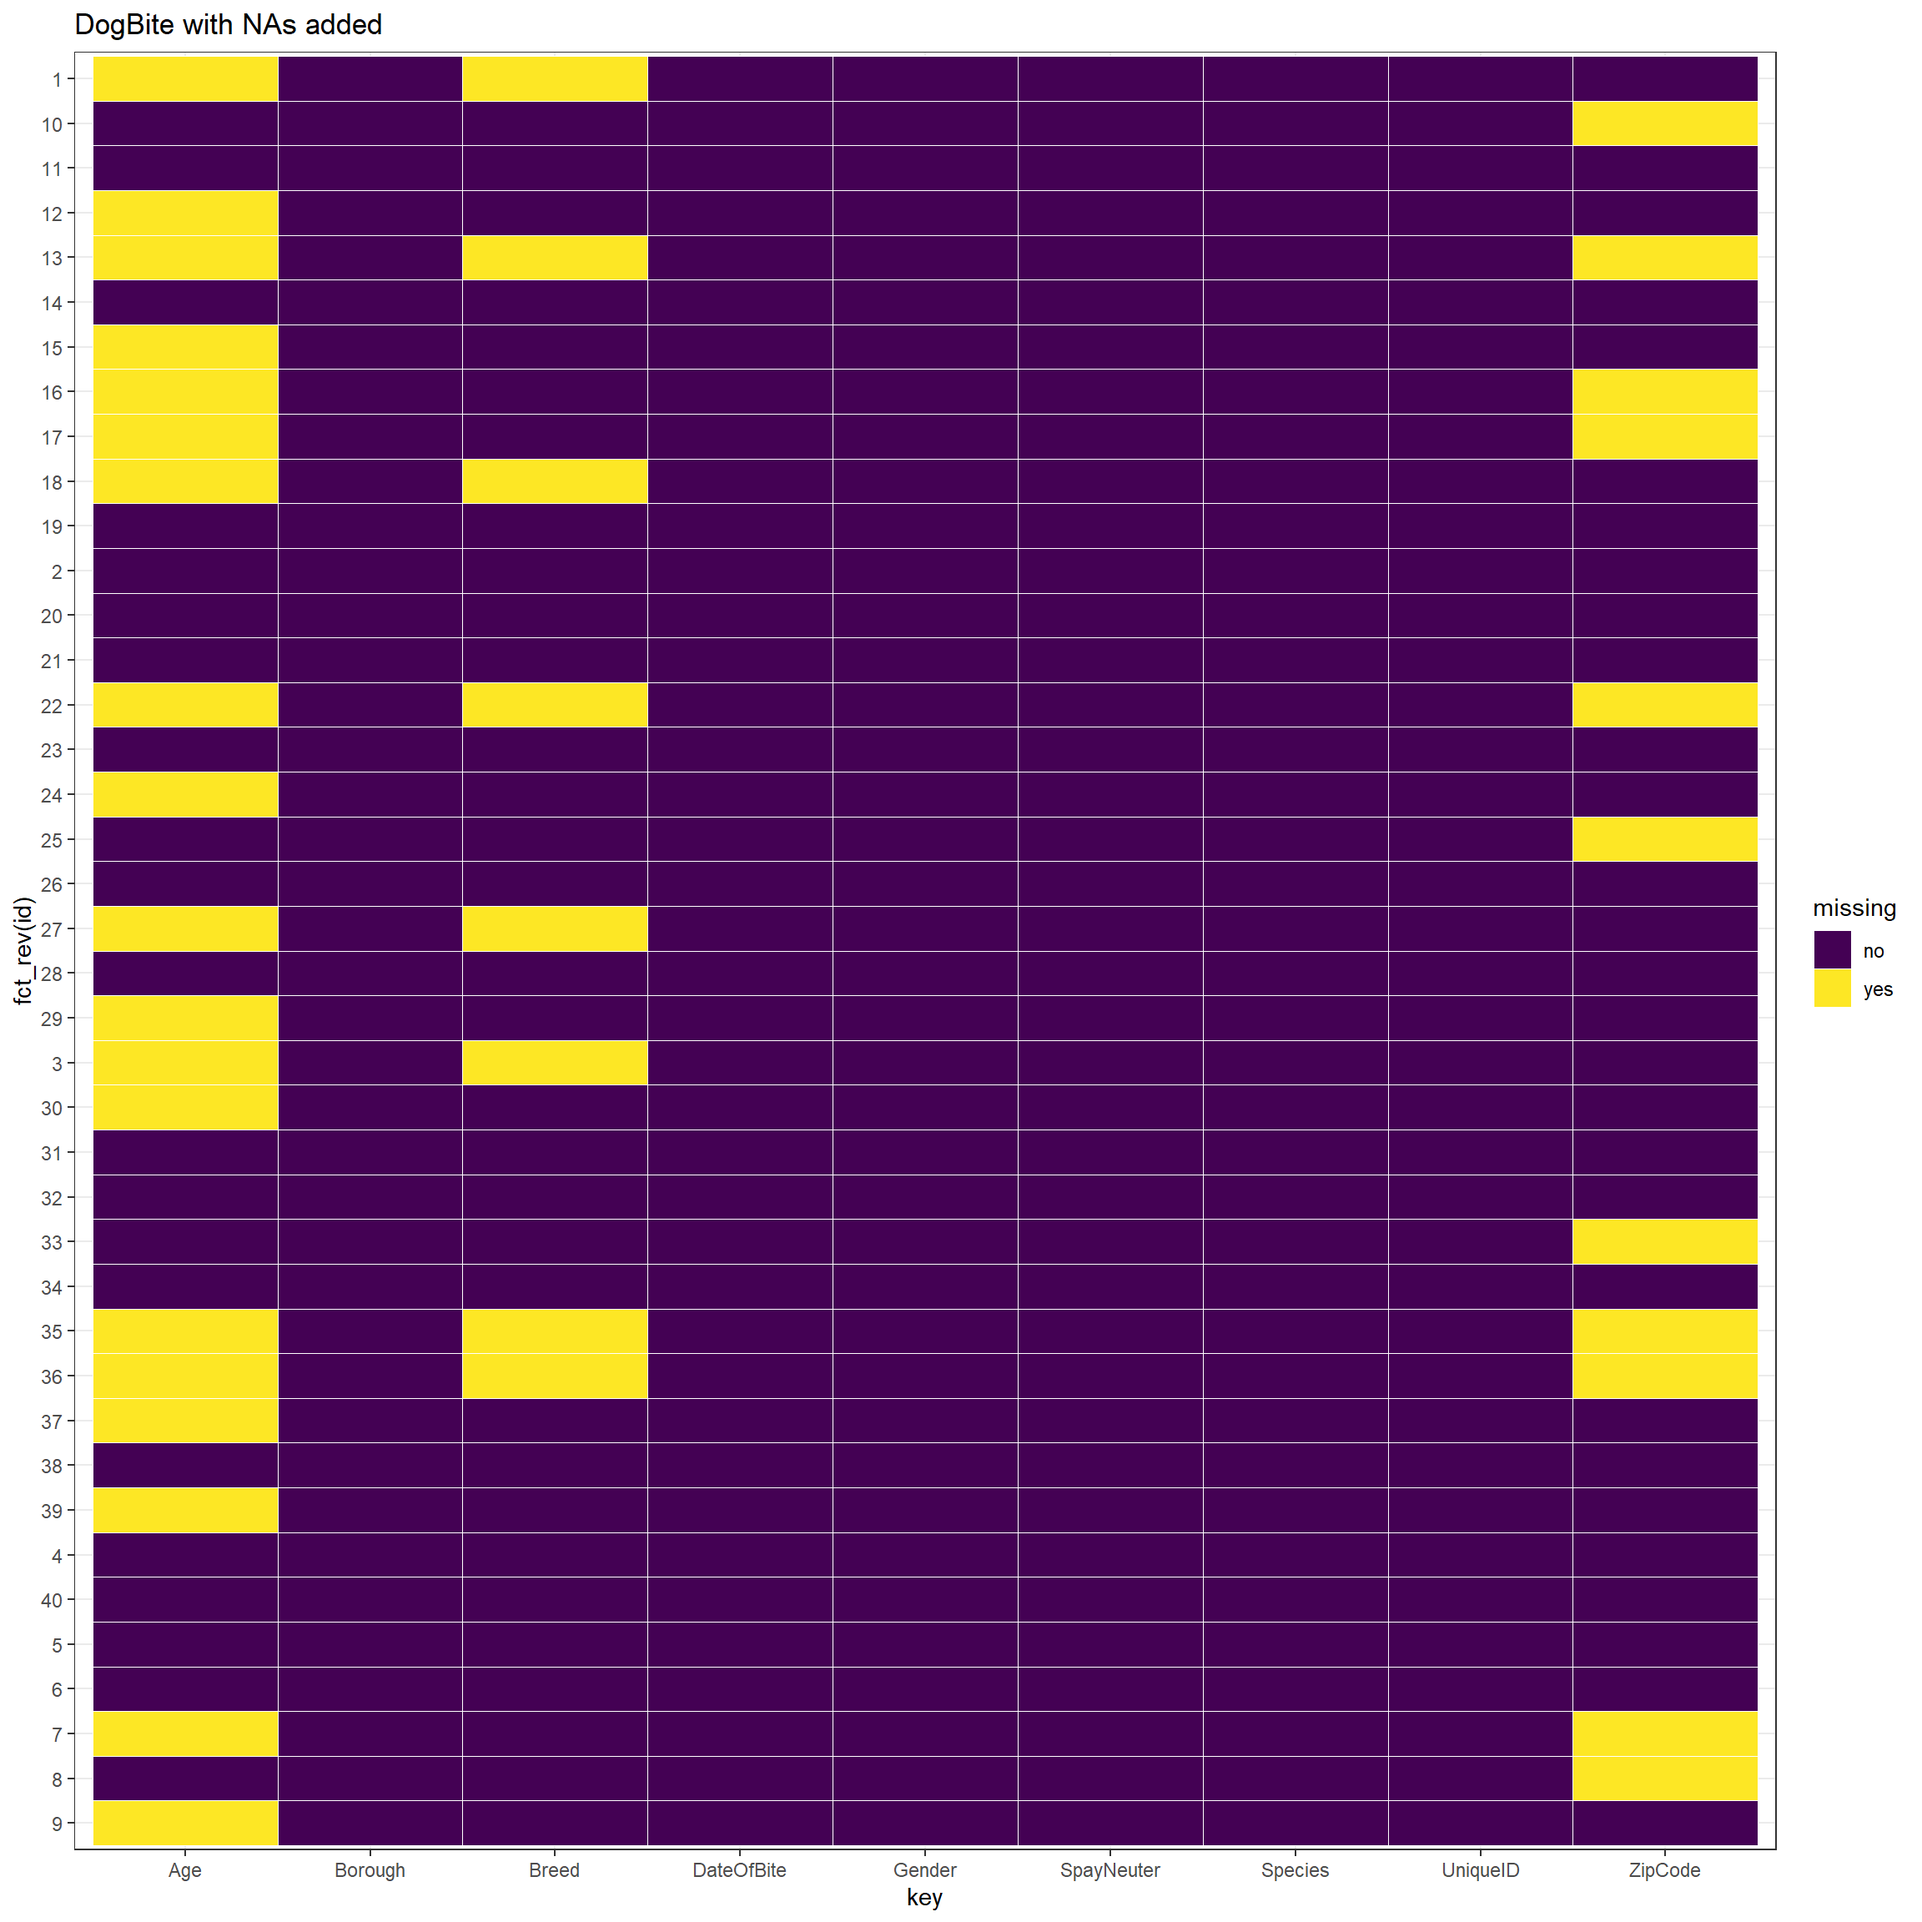
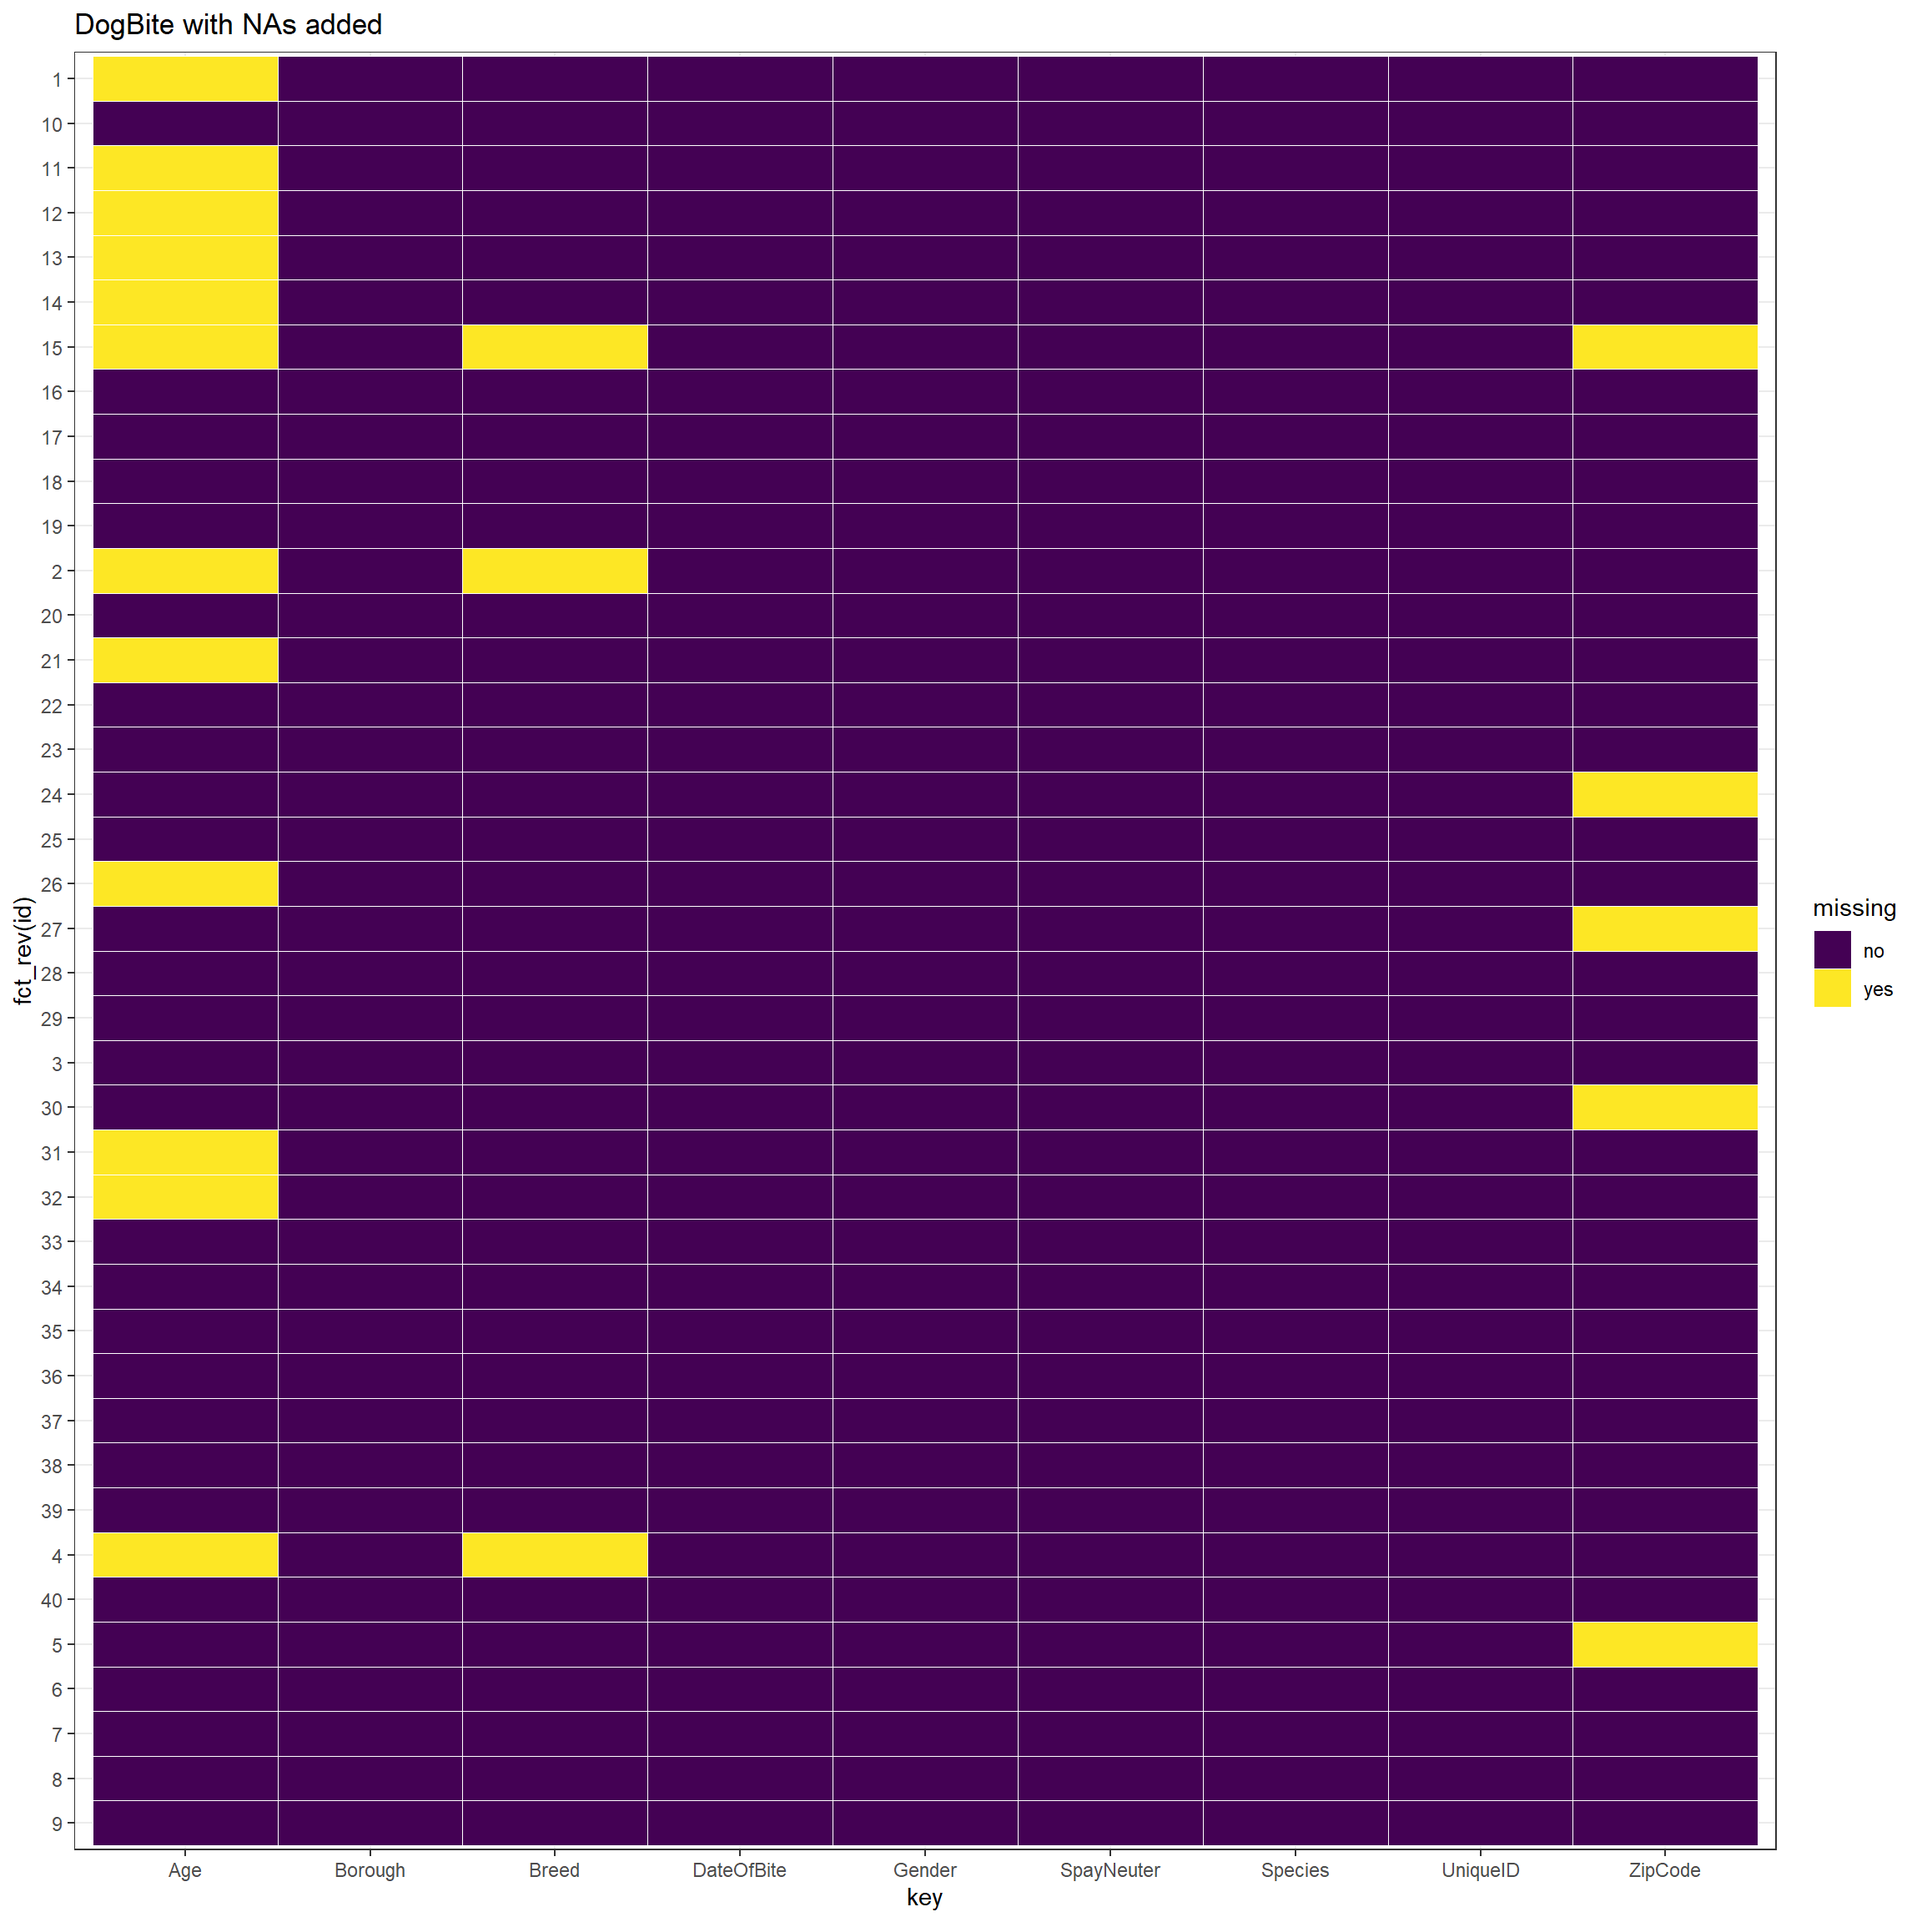
commit

diff --git a/docs/missing-values.html b/docs/missing-values.html
@@ -155,7 +155,7 @@
 <div id="missing-values-by-row" class="section level2" number="4.3">
 <h2><span class="header-section-number">4.3</span> Missing values by row</h2>
 <p>Since we have 10280 rows, it is not clear if we continue analyzing with all of the data. Our data only contains one file, thus we randomly select 40 rows for analysis.</p>
-<pre><code>##  [1] 3 3 3 3 2 2 2 2 2 2 2 1 1 1 1 1 1 1 1 1 1 1 1 0 0 0 0 0 0 0
+<pre><code>##  [1] 3 2 2 1 1 1 1 1 1 1 1 1 1 1 1 1 0 0 0 0 0 0 0 0 0 0 0 0 0 0
 ## [31] 0 0 0 0 0 0 0 0 0 0</code></pre>
 <p>Then we show missing values by row from large to small. We found that rows with the most missing values miss 3 values (i.e, “Age”, “ZipCode”, and “Breed”), while rows with the least missing values miss 0 value. There are only a small part of events in which all three values are missing.</p>
 </div>
@@ -183,30 +183,30 @@
 <pre><code>## [1] &quot;missing_data.frame&quot;
 ## attr(,&quot;package&quot;)
 ## [1] &quot;mi&quot;</code></pre>
-<pre><code>##  [1] Breed, Age          nothing             Breed, Age         
-##  [4] nothing             nothing             nothing            
-##  [7] Age, ZipCode        ZipCode             Age                
-## [10] ZipCode             nothing             Age                
-## [13] Breed, Age, ZipCode nothing             Age                
-## [16] Age, ZipCode        Age, ZipCode        Breed, Age         
-## [19] nothing             nothing             nothing            
-## [22] Breed, Age, ZipCode nothing             Age                
-## [25] ZipCode             nothing             Breed, Age         
-## [28] nothing             Age                 Breed, Age         
-## [31] nothing             nothing             ZipCode            
-## [34] nothing             Breed, Age, ZipCode Breed, Age, ZipCode
-## [37] Breed, Age          nothing             Age                
+<pre><code>##  [1] Age                 Breed, Age          nothing            
+##  [4] Breed, Age          ZipCode             nothing            
+##  [7] nothing             nothing             nothing            
+## [10] nothing             Age                 Age                
+## [13] Age                 Age                 Breed, Age, ZipCode
+## [16] nothing             nothing             nothing            
+## [19] nothing             nothing             Age                
+## [22] nothing             nothing             ZipCode            
+## [25] nothing             Age                 ZipCode            
+## [28] nothing             nothing             ZipCode            
+## [31] Age                 Age                 nothing            
+## [34] nothing             nothing             nothing            
+## [37] nothing             nothing             nothing            
 ## [40] nothing            
-## 6 Levels: nothing ZipCode Age Breed, Age ... Breed, Age, ZipCode</code></pre>
+## 5 Levels: nothing Age ZipCode ... Breed, Age, ZipCode</code></pre>
 <p>This part lists the situation of missing values of our 40 samples. Each one indicates the kinds of values that are missed in each sample.</p>
-<pre><code>## [1] &quot;nothing&quot;             &quot;ZipCode&quot;            
-## [3] &quot;Age&quot;                 &quot;Breed, Age&quot;         
-## [5] &quot;Age, ZipCode&quot;        &quot;Breed, Age, ZipCode&quot;</code></pre>
+<pre><code>## [1] &quot;nothing&quot;             &quot;Age&quot;                
+## [3] &quot;ZipCode&quot;             &quot;Breed, Age&quot;         
+## [5] &quot;Breed, Age, ZipCode&quot;</code></pre>
 <p>This part lists all of the patterns above.</p>
-<pre><code>##             nothing             ZipCode                 Age 
-##                  17                   4                   6 
-##          Breed, Age        Age, ZipCode Breed, Age, ZipCode 
-##                   6                   3                   4</code></pre>
+<pre><code>##             nothing                 Age             ZipCode 
+##                  24                   9                   4 
+##          Breed, Age Breed, Age, ZipCode 
+##                   2                   1</code></pre>
 <p>This part shows the specific counts of patterns above.</p>
 <p>Then, we aim to create a missing values plot in the style of extracat::visna() (no longer available on CRAN) using ggplot2. First, we create the function for creating missing plots.</p>
 <p>Then we use the function to draw the plot. Note that we use the entire dataset instead of our 40 samples in this part for better discussion.</p>

diff --git a/docs/index.html b/docs/index.html
@@ -141,6 +141,14 @@
 </div>
 <div id="introduction" class="section level1" number="1">
 <h1><span class="header-section-number">Chapter 1</span> Introduction</h1>
+<p>As dogs have become one of our most important pets and friends, we have also paid more attention to dog bite events. We are curious about the factors that are most likely to cause dog bite events, which could assist the management department and dog owners have more targeted control and care for dogs. It can also help reduce the unwanted incidents and also make puppies as lovely creatures in people’s minds. With this inspiration, our project aims to explore the relationships between dog bites and some characteristics of dogs, e.g., breeds, boroughs, genders.</p>
+<p>We collect three data sources for our project. Our main dataset is about dog bite incidents that happened in NYC from 2015 to 2017 reported to the Department of Health and Mental Hygiene (DOHMH). We also choose two auxiliary data sources, i.e., NYC Dog Licensing Data and Average Temperature in NYC Data. With the three datasets, we aim to discussing the following questions:</p>
+<p>Which breed has the largest number of dog bites? Is this because of its higher population among all dogs or because of this breed’s natural potential of being aggressive?</p>
+<p>Which borough has the largest number of dog bites? Is this because of the higher population of dogs in this borough or because of the inadequate management and policies?</p>
+<p>Are dog bites affected by time? Is there periodicity? Is this related to temperature?</p>
+<p>Are dog bites affected by gender and spayed/neutered status? Which gender has the larger number of dog bites? Is this because of the higher population of dogs with this gender or because of their aggression?</p>
+<p>Which is more likely to bite people, younger dogs or older dog? Is this related to breeds?</p>
+<p>We will explore the answers in our project. For more details, refer to <a href="https://github.com/rul124/DogBiteAnalysis" class="uri">https://github.com/rul124/DogBiteAnalysis</a>.</p>
 
 </div>
             </section>
